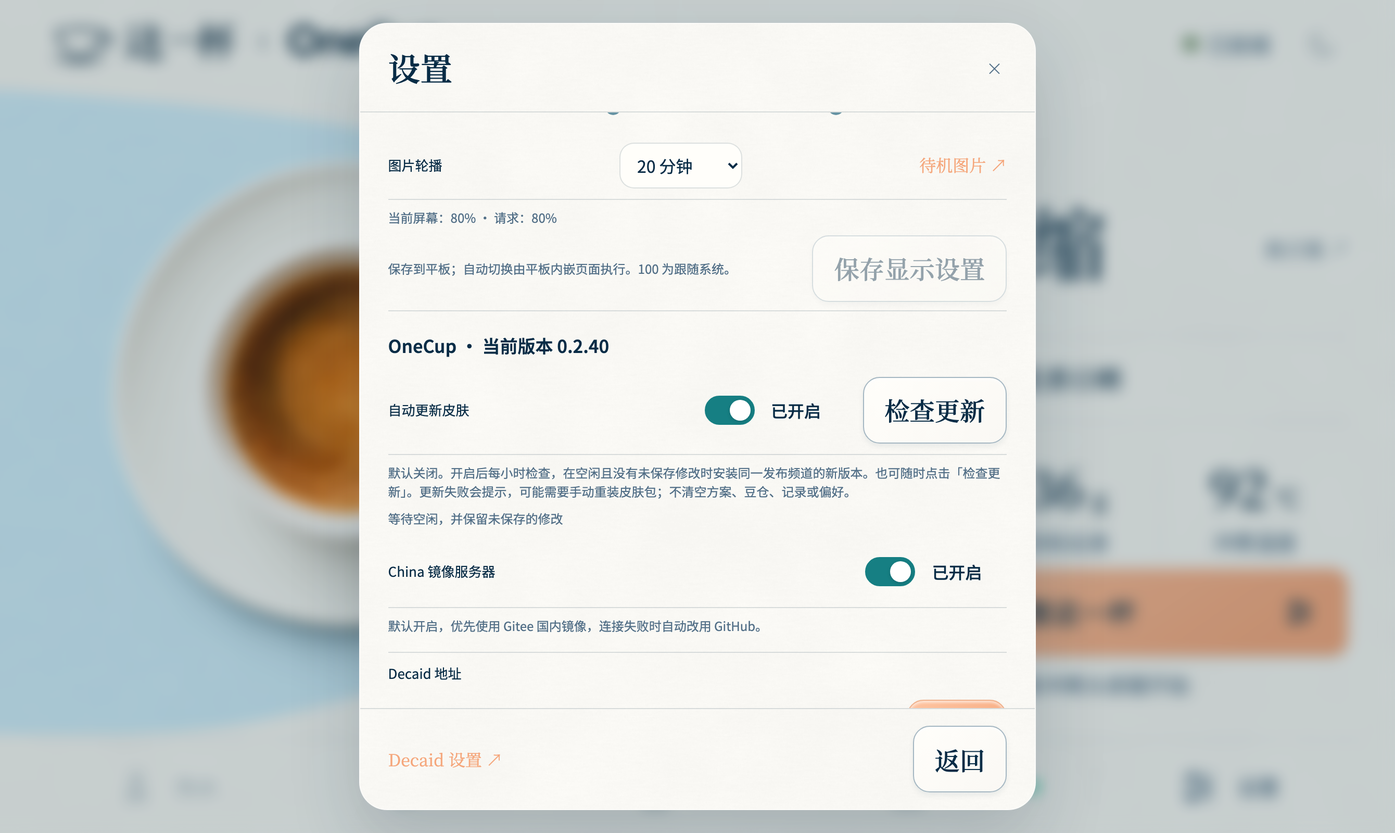
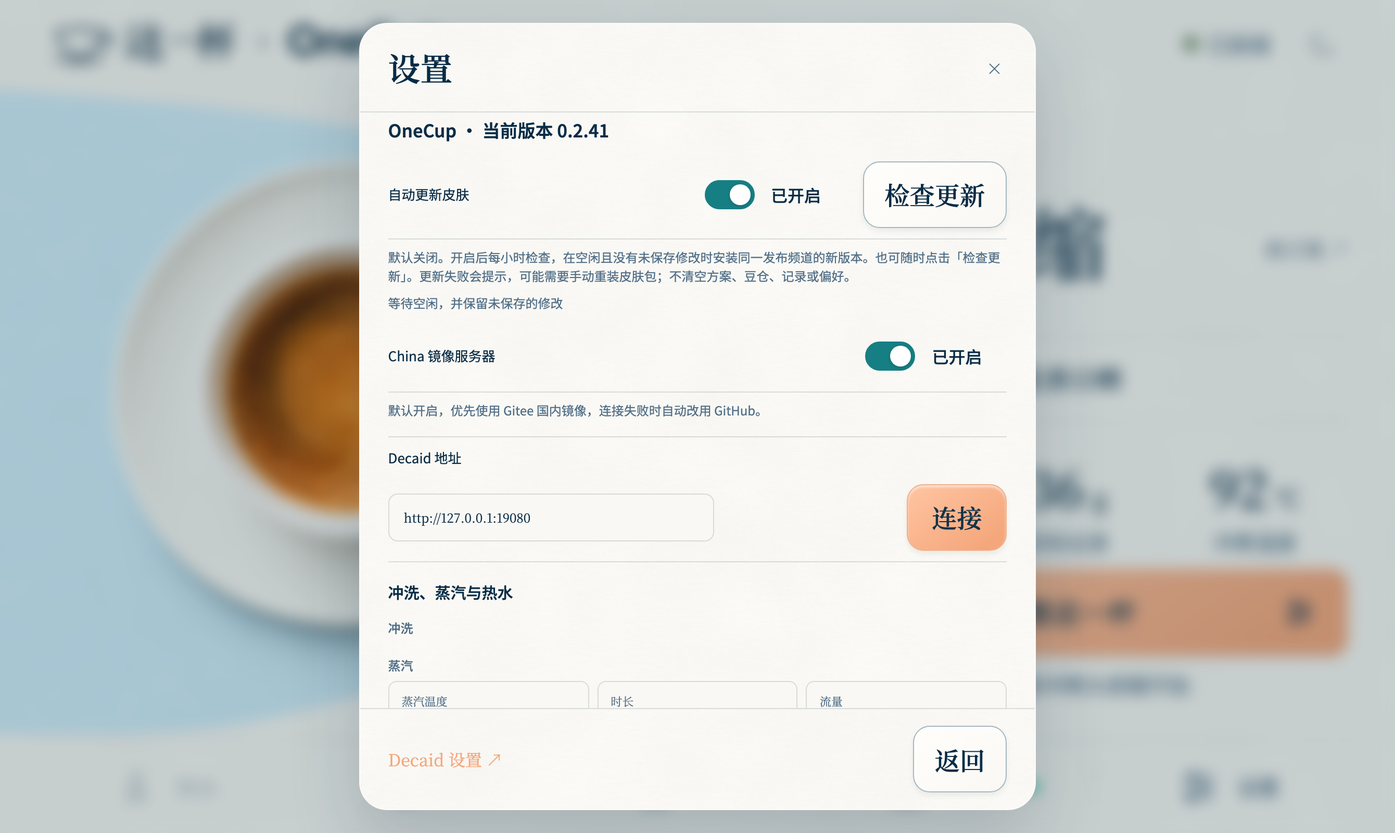
发布 0.2.41：修复制作结束状态处理

diff --git a/skin/index.html b/skin/index.html
@@ -9,16 +9,16 @@
     <meta name="theme-color" content="#f4f3ef" />
     <link rel="icon" href="data:," />
     <title>这一杯 · Decaid</title>
-    <link rel="stylesheet" href="./style.css?v=0.2.40" /><link rel="stylesheet" href="./beans.css?v=0.2.40" />
-    <link rel="stylesheet" href="./ceramic-functional.css?v=0.2.40" />
-    <link rel="stylesheet" href="./profile-editor.css?v=0.2.40" />
-    <link rel="stylesheet" href="./ceramic.css?v=0.2.40" />
-    <link rel="stylesheet" href="./ceramic-reference.css?v=0.2.40" />
-    <link rel="stylesheet" href="./typography.css?v=0.2.40" />
-    <link rel="stylesheet" href="./ceramic-profiles.css?v=0.2.40" />
-    <link rel="stylesheet" href="./ceramic-slices.css?v=0.2.40" />
-    <link rel="stylesheet" href="./ceramic-refinements.css?v=0.2.40" />
-    <link rel="stylesheet" href="./chart-palette.css?v=0.2.40" />
+    <link rel="stylesheet" href="./style.css?v=0.2.41" /><link rel="stylesheet" href="./beans.css?v=0.2.41" />
+    <link rel="stylesheet" href="./ceramic-functional.css?v=0.2.41" />
+    <link rel="stylesheet" href="./profile-editor.css?v=0.2.41" />
+    <link rel="stylesheet" href="./ceramic.css?v=0.2.41" />
+    <link rel="stylesheet" href="./ceramic-reference.css?v=0.2.41" />
+    <link rel="stylesheet" href="./typography.css?v=0.2.41" />
+    <link rel="stylesheet" href="./ceramic-profiles.css?v=0.2.41" />
+    <link rel="stylesheet" href="./ceramic-slices.css?v=0.2.41" />
+    <link rel="stylesheet" href="./ceramic-refinements.css?v=0.2.41" />
+    <link rel="stylesheet" href="./chart-palette.css?v=0.2.41" />
   </head>
   <body data-ceramic-screen="ready">
     <svg class="symbols" aria-hidden="true">
@@ -61,7 +61,7 @@
     </svg>
     <div id="app">
 <header class="topbar">
-<div class="brand"><img class="onecup-brand-art" src="./assets/ceramic/onecup-brand.svg?v=0.2.40" alt="这一杯 · OneCup"></div>
+<div class="brand"><img class="onecup-brand-art" src="./assets/ceramic/onecup-brand.svg?v=0.2.41" alt="这一杯 · OneCup"></div>
 <div class="ceramic-stage-title"><h2 id="stageTitle">准备这一杯</h2><span id="phaseName"></span></div>
 <button id="connectionButton" class="connection" aria-label="连接状态"><i id="connectionDot"></i><span id="connectionText">正在连接</span><span id="deviceName" hidden></span></button>
 <button id="powerButton" class="icon-label power-button" aria-label="休眠或唤醒"><svg viewBox="0 0 24 24"><path d="M20 16A9 9 0 0 1 8 4a9 9 0 1 0 12 12Z"/></svg><span data-i18n="wake">唤醒</span></button>
@@ -165,7 +165,7 @@
     >
       <section class="dialog profile-dialog">
         <header class="dialog-header">
-          <div class="brand"><img class="onecup-brand-art" src="./assets/ceramic/onecup-brand.svg?v=0.2.40" alt="这一杯 · OneCup"></div>
+          <div class="brand"><img class="onecup-brand-art" src="./assets/ceramic/onecup-brand.svg?v=0.2.41" alt="这一杯 · OneCup"></div>
           <h2 id="profileDialogTitle" data-i18n="chooseProfileTitle">
             换个方案
           </h2>
@@ -404,7 +404,7 @@
         </footer>
       </section>
     </div>
-<div class="overlay" id="ceramicAdjustDialog" hidden role="dialog" aria-modal="true" aria-labelledby="ceramicAdjustTitle"><section class="dialog ceramic-adjust-dialog"><header class="dialog-header"><div class="brand"><img class="onecup-brand-art" src="./assets/ceramic/onecup-brand.svg?v=0.2.40" alt="这一杯 · OneCup"></div><h2 id="ceramicAdjustTitle" data-ceramic-i18n="adjustCup">调整这一杯</h2><button data-close class="close-button" aria-label="返回">×</button></header><div class="dialog-content"><span class="ceramic-adjust-eyebrow" data-i18n="currentRecipe">当前方案</span><h3 id="ceramicAdjustName"></h3>          <div class="parameters" id="parameters">
+<div class="overlay" id="ceramicAdjustDialog" hidden role="dialog" aria-modal="true" aria-labelledby="ceramicAdjustTitle"><section class="dialog ceramic-adjust-dialog"><header class="dialog-header"><div class="brand"><img class="onecup-brand-art" src="./assets/ceramic/onecup-brand.svg?v=0.2.41" alt="这一杯 · OneCup"></div><h2 id="ceramicAdjustTitle" data-ceramic-i18n="adjustCup">调整这一杯</h2><button data-close class="close-button" aria-label="返回">×</button></header><div class="dialog-content"><span class="ceramic-adjust-eyebrow" data-i18n="currentRecipe">当前方案</span><h3 id="ceramicAdjustName"></h3>          <div class="parameters" id="parameters">
             <div class="parameter">
               <span class="parameter-label" data-i18n="dose">粉量</span>
               <div class="parameter-control">
@@ -475,10 +475,10 @@
           </button>
 </footer></section></div>
     <div class="ceramic-tools"><button id="historyButton" class="icon-label"><svg><use href="#i-history"/></svg><span data-i18n="history">历史</span></button><button id="themeButton" class="icon-button" aria-label="切换明暗主题"><svg><use href="#i-sun"/></svg></button><button id="languageButton" class="icon-button language" aria-label="Switch language">EN</button><button class="aux-button" data-command="flush"><svg><use href="#i-flush"/></svg><span data-i18n="flush">冲洗</span></button></div>
-<div class="overlay" id="ceramicSteamDialog" hidden role="dialog" aria-modal="true" aria-labelledby="ceramicSteamTitle"><section class="dialog ceramic-steam-dialog"><header class="dialog-header"><div class="brand"><img class="onecup-brand-art" src="./assets/ceramic/onecup-brand.svg?v=0.2.40" alt="这一杯 · OneCup"></div><h2 id="ceramicSteamTitle" data-i18n="steam">蒸汽</h2><span id="ceramicSteamState" hidden></span><button data-close class="close-button" aria-label="返回">×</button></header><div class="ceramic-steam-body"><div class="ceramic-steam-art"><svg class="ceramic-steam-progress" viewBox="0 0 1586 992" aria-hidden="true"><defs><linearGradient id="steam-progress-shade" x1="0" y1="0" x2="1" y2="1"><stop stop-color="#ffa66d"/><stop offset=".5" stop-color="#ffbb80"/><stop offset="1" stop-color="#f4a16a"/></linearGradient><mask id="steam-wand-mask" maskUnits="userSpaceOnUse" x="0" y="0" width="1586" height="992"><rect width="1586" height="992" fill="white"/><path d="M815 169 C787 188 762 213 746 240 C716 269 696 315 683 367 C679 383 684 401 699 410 C715 422 735 413 744 397 L759 351 C774 308 794 284 812 269 L852 246 Z" fill="black"/></mask></defs><image href="./assets/ceramic/slices/steam-art.png" width="1586" height="992"/><g mask="url(#steam-wand-mask)"><path id="ceramicSteamArc" d="M484 229 A278 271 0 1 1 484 771 A278 271 0 1 1 484 229" pathLength="100" fill="none" stroke="url(#steam-progress-shade)" stroke-width="25" stroke-linecap="round"/></g></svg><div class="ceramic-steam-clock"><span data-ceramic-i18n="elapsed">经过时间</span><strong id="ceramicSteamElapsed">—<small>s</small></strong><span data-ceramic-i18n="setDuration">设定时长</span><b id="ceramicSteamDurationNote">— s</b></div></div><div class="ceramic-steam-right"><div class="ceramic-steam-params"><div class="ceramic-steam-param"><label data-ceramic-i18n="steamTemperature">蒸汽温度</label><button data-ceramic-steam-step="temperature:-1" aria-label="减少蒸汽温度">−</button><button data-ceramic-steam-edit="temperature"><strong id="ceramicSteamTemperature">—</strong><small>°C</small></button><button data-ceramic-steam-step="temperature:1" aria-label="增加蒸汽温度">+</button><p id="ceramicSteamActual"></p></div><div class="ceramic-steam-param"><label data-ceramic-i18n="steamFlow">蒸汽流量</label><button data-ceramic-steam-step="flow:-1" aria-label="减少蒸汽流量">−</button><button data-ceramic-steam-edit="flow"><strong id="ceramicSteamFlow">—</strong><small>mL/s</small></button><button data-ceramic-steam-step="flow:1" aria-label="增加蒸汽流量">+</button></div><div class="ceramic-steam-param"><label data-ceramic-i18n="steamDuration">设定时长</label><button data-ceramic-steam-step="duration:-1" aria-label="减少设定时长">−</button><button data-ceramic-steam-edit="duration"><strong id="ceramicSteamDuration">—</strong><small>s</small></button><button data-ceramic-steam-step="duration:1" aria-label="增加设定时长">+</button></div></div><p id="ceramicSteamMessage" role="status"></p><button id="ceramicSteamApply" class="button primary" data-ceramic-i18n="applySteam">应用参数</button><button id="ceramicSteamStop" class="button stop-button active" data-i18n="stop" hidden>停止</button><button id="ceramicSteamStart" class="button primary" hidden data-ceramic-i18n="startSteam">开始蒸汽</button></div></div></section></div>
+<div class="overlay" id="ceramicSteamDialog" hidden role="dialog" aria-modal="true" aria-labelledby="ceramicSteamTitle"><section class="dialog ceramic-steam-dialog"><header class="dialog-header"><div class="brand"><img class="onecup-brand-art" src="./assets/ceramic/onecup-brand.svg?v=0.2.41" alt="这一杯 · OneCup"></div><h2 id="ceramicSteamTitle" data-i18n="steam">蒸汽</h2><span id="ceramicSteamState" hidden></span><button data-close class="close-button" aria-label="返回">×</button></header><div class="ceramic-steam-body"><div class="ceramic-steam-art"><svg class="ceramic-steam-progress" viewBox="0 0 1586 992" aria-hidden="true"><defs><linearGradient id="steam-progress-shade" x1="0" y1="0" x2="1" y2="1"><stop stop-color="#ffa66d"/><stop offset=".5" stop-color="#ffbb80"/><stop offset="1" stop-color="#f4a16a"/></linearGradient><mask id="steam-wand-mask" maskUnits="userSpaceOnUse" x="0" y="0" width="1586" height="992"><rect width="1586" height="992" fill="white"/><path d="M815 169 C787 188 762 213 746 240 C716 269 696 315 683 367 C679 383 684 401 699 410 C715 422 735 413 744 397 L759 351 C774 308 794 284 812 269 L852 246 Z" fill="black"/></mask></defs><image href="./assets/ceramic/slices/steam-art.png" width="1586" height="992"/><g mask="url(#steam-wand-mask)"><path id="ceramicSteamArc" d="M484 229 A278 271 0 1 1 484 771 A278 271 0 1 1 484 229" pathLength="100" fill="none" stroke="url(#steam-progress-shade)" stroke-width="25" stroke-linecap="round"/></g></svg><div class="ceramic-steam-clock"><span data-ceramic-i18n="elapsed">经过时间</span><strong id="ceramicSteamElapsed">—<small>s</small></strong><span data-ceramic-i18n="setDuration">设定时长</span><b id="ceramicSteamDurationNote">— s</b></div></div><div class="ceramic-steam-right"><div class="ceramic-steam-params"><div class="ceramic-steam-param"><label data-ceramic-i18n="steamTemperature">蒸汽温度</label><button data-ceramic-steam-step="temperature:-1" aria-label="减少蒸汽温度">−</button><button data-ceramic-steam-edit="temperature"><strong id="ceramicSteamTemperature">—</strong><small>°C</small></button><button data-ceramic-steam-step="temperature:1" aria-label="增加蒸汽温度">+</button><p id="ceramicSteamActual"></p></div><div class="ceramic-steam-param"><label data-ceramic-i18n="steamFlow">蒸汽流量</label><button data-ceramic-steam-step="flow:-1" aria-label="减少蒸汽流量">−</button><button data-ceramic-steam-edit="flow"><strong id="ceramicSteamFlow">—</strong><small>mL/s</small></button><button data-ceramic-steam-step="flow:1" aria-label="增加蒸汽流量">+</button></div><div class="ceramic-steam-param"><label data-ceramic-i18n="steamDuration">设定时长</label><button data-ceramic-steam-step="duration:-1" aria-label="减少设定时长">−</button><button data-ceramic-steam-edit="duration"><strong id="ceramicSteamDuration">—</strong><small>s</small></button><button data-ceramic-steam-step="duration:1" aria-label="增加设定时长">+</button></div></div><p id="ceramicSteamMessage" role="status"></p><button id="ceramicSteamApply" class="button primary" data-ceramic-i18n="applySteam">应用参数</button><button id="ceramicSteamStop" class="button stop-button active" data-i18n="stop" hidden>停止</button><button id="ceramicSteamStart" class="button primary" hidden data-ceramic-i18n="startSteam">开始蒸汽</button></div></div></section></div>
     <div id="toast" class="toast" role="status" hidden></div>
     <div id="grinderHost"></div>
-    <script type="module" src="./app.js?v=0.2.40"></script>
-    <script type="module" src="./grinder-panel.js?v=0.2.40"></script>
+    <script type="module" src="./app.js?v=0.2.41"></script>
+    <script type="module" src="./grinder-panel.js?v=0.2.41"></script>
   </body>
 </html>

diff --git a/skin/ceramic-slices.css b/skin/ceramic-slices.css
@@ -4,7 +4,7 @@
  :root:not([data-theme=dark]) .ceramic-adjust-dialog .parameters{
   left:1.13vw;right:1.13vw;top:29.94vh;height:44.46vh;
   padding:7vh 4.05vw 10vh;gap:2vw;border:0;border-radius:0;
-  background:url('./assets/ceramic/slices/adjust-panel.png?v=0.2.40r1') center/100% 100% no-repeat;box-shadow:none;
+  background:url('./assets/ceramic/slices/adjust-panel.png?v=0.2.41r1') center/100% 100% no-repeat;box-shadow:none;
  }
  .ceramic-adjust-dialog .parameter-label{font-size:2.15vw;line-height:1.25;margin-bottom:2.4vh}
  .ceramic-adjust-dialog .parameter-control{gap:.8vw}
@@ -20,16 +20,16 @@
  .ceramic-adjust-dialog .save-options{top:61.2vh}
  :root:not([data-theme=dark]) .ceramic-adjust-dialog .number-button,
  :root:not([data-theme=dark]) .gp-dialog .gp-parameter,
- :root:not([data-theme=dark]) .ceramic-steam-param button[data-ceramic-steam-edit]{background:url('./assets/ceramic/slices/number-well.png?v=0.2.40r1') center/100% 100% no-repeat;box-shadow:none;border:0;border-radius:0}
+ :root:not([data-theme=dark]) .ceramic-steam-param button[data-ceramic-steam-edit]{background:url('./assets/ceramic/slices/number-well.png?v=0.2.41r1') center/100% 100% no-repeat;box-shadow:none;border:0;border-radius:0}
  :root:not([data-theme=dark]) .ceramic-adjust-dialog .parameter-control>button:not(.number-button),
  :root:not([data-theme=dark]) .gp-dialog .gp-round,
- :root:not([data-theme=dark]) .ceramic-steam-param button[data-ceramic-steam-step]{background:url('./assets/ceramic/slices/round-button.png?v=0.2.40r1') center/100% 100% no-repeat;box-shadow:none;border:0;border-radius:0}
- :root:not([data-theme=dark]) .gp-dialog .gp-parameters{background:url('./assets/ceramic/slices/grinder-panel.png?v=0.2.40r1') center/100% 100% no-repeat!important;box-shadow:none!important;border:0!important;border-radius:0!important}
- :root:not([data-theme=dark]) .beans-stage .beans-card{background:url('./assets/ceramic/slices/beans-panel.png?v=0.2.40r1') center/100% 100% no-repeat;box-shadow:none;border:0;border-radius:0;overflow:visible}
- :root:not([data-theme=dark]) body[data-ceramic-screen=taste] #ceramicTastePanel{background:url('./assets/ceramic/slices/taste-panel.png?v=0.2.40r1') center/100% 100% no-repeat;box-shadow:none;border:0;border-radius:0}
- :root:not([data-theme=dark]) .ceramic-steam-params{background:url('./assets/ceramic/slices/steam-panel.png?v=0.2.40r1') center/100% 100% no-repeat;box-shadow:none;border:0;border-radius:0}
- :root:not([data-theme=dark]) :is(#applyDraft,#applyProfile,#ceramicSaveNote,#ceramicSteamStop,#ceramicSteamApply,.gp-dialog .gp-primary,.beans-stage .beans-primary){background:url('./assets/ceramic/slices/orange-button.png?v=0.2.40r1') center/100% 100% no-repeat!important;box-shadow:none!important;border:0!important;border-radius:0!important}
- :root:not([data-theme=dark]) .gp-dialog [data-gp=apply]{background:url('./assets/ceramic/slices/soft-button.png?v=0.2.40r1') center/100% 100% no-repeat!important;box-shadow:none!important;border:0!important;border-radius:0!important}
+ :root:not([data-theme=dark]) .ceramic-steam-param button[data-ceramic-steam-step]{background:url('./assets/ceramic/slices/round-button.png?v=0.2.41r1') center/100% 100% no-repeat;box-shadow:none;border:0;border-radius:0}
+ :root:not([data-theme=dark]) .gp-dialog .gp-parameters{background:url('./assets/ceramic/slices/grinder-panel.png?v=0.2.41r1') center/100% 100% no-repeat!important;box-shadow:none!important;border:0!important;border-radius:0!important}
+ :root:not([data-theme=dark]) .beans-stage .beans-card{background:url('./assets/ceramic/slices/beans-panel.png?v=0.2.41r1') center/100% 100% no-repeat;box-shadow:none;border:0;border-radius:0;overflow:visible}
+ :root:not([data-theme=dark]) body[data-ceramic-screen=taste] #ceramicTastePanel{background:url('./assets/ceramic/slices/taste-panel.png?v=0.2.41r1') center/100% 100% no-repeat;box-shadow:none;border:0;border-radius:0}
+ :root:not([data-theme=dark]) .ceramic-steam-params{background:url('./assets/ceramic/slices/steam-panel.png?v=0.2.41r1') center/100% 100% no-repeat;box-shadow:none;border:0;border-radius:0}
+ :root:not([data-theme=dark]) :is(#applyDraft,#applyProfile,#ceramicSaveNote,#ceramicSteamStop,#ceramicSteamApply,.gp-dialog .gp-primary,.beans-stage .beans-primary){background:url('./assets/ceramic/slices/orange-button.png?v=0.2.41r1') center/100% 100% no-repeat!important;box-shadow:none!important;border:0!important;border-radius:0!important}
+ :root:not([data-theme=dark]) .gp-dialog [data-gp=apply]{background:url('./assets/ceramic/slices/soft-button.png?v=0.2.41r1') center/100% 100% no-repeat!important;box-shadow:none!important;border:0!important;border-radius:0!important}
  body[data-ceramic-screen=ready] .ceramic-beans-link{min-height:15%}
  body[data-ceramic-screen=ready] .ceramic-recipe-values{height:10.1vh;min-height:0}
  body[data-ceramic-screen=ready] #ceramicAdjust{height:10.68vh;min-height:0;padding:1vh 3.6vw;font:500 2.5vw/1.2 var(--font-caption)}
@@ -76,10 +76,10 @@
 @media(min-width:751px){
  :root:not([data-theme=dark]) :is(.ceramic-adjust-dialog .parameters,.gp-dialog .gp-parameters,.beans-stage .beans-card,.ceramic-steam-params){filter:drop-shadow(0 .65vw .7vw #394a5319)}
  .gp-dialog .gp-burr-art{filter:drop-shadow(0 1vw .8vw #35556830)}
- .beans-art{background:url('./assets/ceramic/slices/beans-art.png?v=0.2.40r1') center/100% 100% no-repeat;mix-blend-mode:normal;mask-image:none}
+ .beans-art{background:url('./assets/ceramic/slices/beans-art.png?v=0.2.41r1') center/100% 100% no-repeat;mix-blend-mode:normal;mask-image:none}
  .beans-art>image{visibility:hidden}
  #ceramicCupArt{mask-image:linear-gradient(to right,#000 88%,transparent),linear-gradient(to bottom,transparent,#000 2%,#000 96%,transparent);mask-composite:intersect}
- .ceramic-steam-art{background-image:url('./assets/ceramic/slices/steam-art.png?v=0.2.40r1');mask-image:none;width:calc(100% + 1.5vw)}
+ .ceramic-steam-art{background-image:url('./assets/ceramic/slices/steam-art.png?v=0.2.41r1');mask-image:none;width:calc(100% + 1.5vw)}
 }
 @media(min-width:751px){
  #ceramicSteamStop{position:relative}
@@ -100,10 +100,10 @@
 
 /* All exposed white page areas use one continuous paper stock. Ceramic
    controls retain their own raised surface; artwork has transparent margins. */
-:root:not([data-theme=dark]){--paper:#faf9f5;--panel:#faf9f5;--paper-image:url('./assets/ceramic/paper.webp?v=0.2.40r1')}
+:root:not([data-theme=dark]){--paper:#faf9f5;--panel:#faf9f5;--paper-image:url('./assets/ceramic/paper.webp?v=0.2.41r1')}
 :root:not([data-theme=dark]) :is(body,#app,.dialog,.gp-overlay,.gp-dialog,.gp-subview,.gp-keypad,.beans-overlay,.beans-sheet){background-color:var(--paper);background-image:var(--paper-image);background-size:cover;background-position:center;background-attachment:fixed}
 :root:not([data-theme=dark]) :is(.topbar,.control-bar,.dialog-header,.dialog-footer,.gp-header,.gp-footer){background:transparent}
-body[data-ceramic-screen=ready] #ceramicCupArt{background-image:url('./assets/ceramic/slices/cup-art.png?v=0.2.40r1');background-size:contain;background-position:left center;background-repeat:no-repeat;mask-image:none}
+body[data-ceramic-screen=ready] #ceramicCupArt{background-image:url('./assets/ceramic/slices/cup-art.png?v=0.2.41r1');background-size:contain;background-position:left center;background-repeat:no-repeat;mask-image:none}
 /* The jug and its live ring share the source board's coordinates. Neither
    aspect ratio nor the wider artwork column can distort their alignment. */
 .ceramic-steam-art{--steam-art-width:min(100vw,159.879vh);background:none!important}

diff --git a/skin/grinder-panel.js b/skin/grinder-panel.js
@@ -1,5 +1,5 @@
-import {brandMarkup} from "./brand.js?v=0.2.40";
-import {guardDismissClick} from "./dismiss-guard.js?v=0.2.40";
+import {brandMarkup} from "./brand.js?v=0.2.41";
+import {guardDismissClick} from "./dismiss-guard.js?v=0.2.41";
 const GP_TEXT = {
   zh: {title:'研磨准备',profile:'当前曲线',other:'读取其他方案',saved:'已保存到当前曲线',draft:'尚未应用',matched:'已读取曲线方案',device:'使用磨豆机当前参数',gap:'刀盘间距',rpm:'刀盘转速',feed:'进豆转速',manual:'手动',timed:'定时',smart:'智能',mode:'启动模式',apply:'应用参数',save:'保存研磨方案',start:'开始研磨',stop:'停止研磨',back:'返回',read:'读取设备',connect:'连接',connecting:'正在连接',connected:'已连接',disconnected:'未连接',unavailable:'小方插件尚未安装',idle:'待机',grinding:'研磨中',unknown:'调整中',error:'设备异常',reading:'正在读取',applying:'正在应用',starting:'正在启动',stopping:'正在停止',applied:'参数已应用',failed:'操作未完成',empty:'还没有保存的方案',search:'搜索方案',borrow:'借用',borrowed:'已载入草稿',cancel:'取消',done:'完成',clear:'清空',range:'范围',invalid:'请输入范围内的整数',close:'返回冲煮',live:'设备读数',noProfile:'未选曲线',loading:'正在读取方案',note:'应用到磨豆机；保存到曲线',ready:'准备好了',finished:'研磨结束',missing:'请先读取完整参数',retry:'重试连接'},
   en: {title:'Prepare to grind',profile:'Current profile',other:'Load recipe',saved:'Saved to this profile',draft:'Not applied',matched:'Profile recipe loaded',device:'Using grinder settings',gap:'Burr gap',rpm:'Burr speed',feed:'Feed speed',manual:'Manual',timed:'Timed',smart:'Smart',mode:'Start mode',apply:'Apply settings',save:'Save grind recipe',start:'Start grinding',stop:'Stop grinder',back:'Back',read:'Read grinder',connect:'Connect',connecting:'Connecting',connected:'Connected',disconnected:'Disconnected',unavailable:'CRYSTAL plugin is not installed',idle:'Idle',grinding:'Grinding',unknown:'Adjusting',error:'Device error',reading:'Reading',applying:'Applying',starting:'Starting',stopping:'Stopping',applied:'Settings applied',failed:'Action failed',empty:'No saved recipes yet',search:'Search recipes',borrow:'Use recipe',borrowed:'Loaded as draft',cancel:'Cancel',done:'Done',clear:'Clear',range:'Range',invalid:'Enter a whole number within range',close:'Back to brewing',live:'Device readings',noProfile:'No profile selected',loading:'Loading recipe',note:'Apply to grinder · Save to profile',ready:'Ready',finished:'Grinding finished',missing:'Read the complete settings first',retry:'Reconnect'}
@@ -243,7 +243,7 @@ export function mountGrinderUI(container,{client,getWorkflow,getProfileIdentity=
       <header class="gp-header"><div class="gp-brand">${brandMarkup()}</div><h2>${displayRunning?t('grinding'):t('title')}</h2><span class="gp-state ${status}"><i></i>${gpEscape(badgeView.label)}</span></header>
       <div class="gp-profile ${String(profile?.title||profile?.name||'').length>14?'gp-long-profile':''}"><span>${t('profile')}</span><strong>${profileTitle}</strong></div>
       ${api.listDevices?`<button type="button" class="gp-device-select" data-gp="devices" ${deviceBlocked()?'disabled':''}><span><strong>${gpEscape(deviceLabel())}</strong><small>${gpEscape(deviceCaption())}</small></span><b>⌄</b></button>`:''}
-      <img class="gp-burr-art" src="${new URL('./assets/ceramic/slices/grinder-art.png?v=0.2.40',import.meta.url).href}" alt="" aria-hidden="true"/>
+      <img class="gp-burr-art" src="${new URL('./assets/ceramic/slices/grinder-art.png?v=0.2.41',import.meta.url).href}" alt="" aria-hidden="true"/>
       <div class="gp-main">
         <div class="gp-toolbar"><div class="gp-mode" aria-label="${t('mode')}">${GP_MODES.map(mode=>`<button type="button" class="${draft.bootMode===mode?'selected':''}" data-gp="mode" data-mode="${mode}" aria-pressed="${draft.bootMode===mode}" ${cardDisabled}>${t(mode)}</button>`).join('')}</div><button type="button" class="gp-link" data-gp="recipes" ${blocked()?'disabled':''}><svg viewBox="0 0 24 24" aria-hidden="true"><path d="M3 6h7l2 3h9v12H3V6Zm0 3V3h7l2 3h8v3"/></svg>${t('other')} ›</button></div>
         <div class="gp-parameters"><p class="gp-feedback ${failure?'error':''}" role="status">${gpEscape(feedbackText)}</p>${Object.entries(GP_FIELDS).map(([key,field])=>`<div class="gp-parameter-row"><label>${t(field.label)}</label><button class="gp-round" type="button" data-gp="increment" data-field="${key}" data-delta="-1" aria-label="${lang==='zh'?'减少':'Decrease '}${t(field.label)}" ${blocked()||!Number.isFinite(draft[key])?'disabled':''}>−</button><button type="button" class="gp-parameter ${dirty?'is-draft':''}" data-gp="edit" data-field="${key}" ${cardDisabled}><strong>${draft[key]!=null?gpEscape(draft[key]):'—'}</strong><small>${field.unit}</small><svg viewBox="0 0 24 24" aria-hidden="true"><path d="m4 16-1 5 5-1L21 7l-4-4L4 16Zm11-11 4 4"/></svg></button><button class="gp-round" type="button" data-gp="increment" data-field="${key}" data-delta="1" aria-label="${lang==='zh'?'增加':'Increase '}${t(field.label)}" ${blocked()||!Number.isFinite(draft[key])?'disabled':''}>+</button></div>`).join('')}</div>
@@ -385,7 +385,7 @@ function attachGrinderEntry(){
   const button=document.querySelector('#grinderButton'),host=document.querySelector('#grinderHost');
   if(!button||!host||button.dataset.gpAttached)return;
   button.dataset.gpAttached='true';
-  const cssUrl=new URL('./grinder.css?v=0.2.40',import.meta.url).href;
+  const cssUrl=new URL('./grinder.css?v=0.2.41',import.meta.url).href;
   if(![...document.querySelectorAll('link[rel="stylesheet"]')].some(link=>link.href===cssUrl)){
     const link=document.createElement('link');link.rel='stylesheet';link.href=cssUrl;document.head.appendChild(link);
   }

diff --git a/skin/app.js b/skin/app.js
@@ -1,18 +1,18 @@
 import {isPreparation,isProfileSample,shotMeasurements,collapseProgress} from "./brew-timeline.js";
-import {stageLabel} from "./stage-labels.js?v=0.2.40";
-import {pendingInventoryIds,pendingInventoryCursor,rememberInventoryAttempt,rememberInventoryShot,forgetInventoryShot} from "./inventory-pending.js?v=0.2.40";
-import {consumeSavedShot} from "./shot-inventory.js?v=0.2.40";
-import {telemetryPath} from "./chart-path.js?v=0.2.40";
-import {setGroupHeadHint} from "./ghc-icons.js?v=0.2.40";
-import {mountProfileIntro} from "./profile-intro.js?v=0.2.40";
-import {mountOnlineProfiles} from "./online-profiles.js?v=0.2.40";
-import {mountCeramic} from "./ceramic-ui.js?v=0.2.40";
-import {paintGauge,gaugeSpec} from "./instruments.js?v=0.2.40";
-import { DecaidClient, selectedProfileContext, profileExecutionKey, resolveProfileIdentity, rebaseWorkflowDraft } from "./client.js?v=0.2.40";
-import { createDisplayManager, DEFAULT_DISPLAY_PREFERENCES } from "./display.js?v=0.2.40";
-import { createSkinUpdater } from "./update.js?v=0.2.40";
-import {createCupReporter,beanSnapshot,machineIdentity} from './cup-telemetry.js?v=0.2.40';
-import { createUsageReporter } from "./usage.js?v=0.2.40";
+import {stageLabel} from "./stage-labels.js?v=0.2.41";
+import {pendingInventoryIds,pendingInventoryCursor,rememberInventoryAttempt,rememberInventoryShot,forgetInventoryShot} from "./inventory-pending.js?v=0.2.41";
+import {consumeSavedShot} from "./shot-inventory.js?v=0.2.41";
+import {telemetryPath} from "./chart-path.js?v=0.2.41";
+import {setGroupHeadHint} from "./ghc-icons.js?v=0.2.41";
+import {mountProfileIntro} from "./profile-intro.js?v=0.2.41";
+import {mountOnlineProfiles} from "./online-profiles.js?v=0.2.41";
+import {mountCeramic} from "./ceramic-ui.js?v=0.2.41";
+import {paintGauge,gaugeSpec} from "./instruments.js?v=0.2.41";
+import { DecaidClient, selectedProfileContext, profileExecutionKey, resolveProfileIdentity, rebaseWorkflowDraft } from "./client.js?v=0.2.41";
+import { createDisplayManager, DEFAULT_DISPLAY_PREFERENCES } from "./display.js?v=0.2.41";
+import { createSkinUpdater } from "./update.js?v=0.2.41";
+import {createCupReporter,beanSnapshot,machineIdentity} from './cup-telemetry.js?v=0.2.41';
+import { createUsageReporter } from "./usage.js?v=0.2.41";
 
 const $ = (id) => document.getElementById(id);
 const clone = (x) => (x == null ? x : JSON.parse(JSON.stringify(x)));
@@ -63,7 +63,7 @@ let runTelemetryIdentity=null;
 let runTelemetryShotId=null;
 let cupPersistenceWarningAt=0;
 let skinUpdater;
-const SKIN_VERSION = "0.2.40";
+const SKIN_VERSION = "0.2.41";
 const s = {
   language: store.get("language", "zh"),
   theme: store.get("theme", "light"),
@@ -1342,9 +1342,10 @@ function onSnapshot(snapshot) {
     s.loadedFinishedId !== s.snapshot.shotState.shotId
   )
     loadFinishedShot(s.snapshot.shotState.shotId);
-  // Telemetry follows the host's confirmed finished signal independently of
-  // the UI history cache, which may already hold a stopping-phase snapshot.
-  if(s.snapshot.shotState?.state==='finished'&&s.snapshot.shotState.shotId===s.runId&&s.mode==='finished'&&runTelemetryMetadata&&
+  // The host's finished stream can arrive before the machine/UI leaves
+  // running, then reset to idle. Persist it immediately; the reporter waits
+  // for an idle machine before reading history or sending the queued event.
+  if(s.snapshot.shotState?.state==='finished'&&s.snapshot.shotState.shotId===s.runId&&runTelemetryMetadata&&
       (telemetryFinishedMarker?.id!==s.runId||telemetryFinishedMarker?.client!==client)){
     const marker={id:s.runId,client},metadata=runTelemetryMetadata,bean=runTelemetryBean;
     telemetryFinishedMarker=marker;

diff --git a/skin/online-profiles.js b/skin/online-profiles.js
@@ -1,15 +1,15 @@
-import {guardDismissClick} from './dismiss-guard.js?v=0.2.40';
-import {brandMarkup} from './brand.js?v=0.2.40';
-import {stageLabel} from './stage-labels.js?v=0.2.40';
-import {profileIntroChart,profileIntroModel} from './profile-intro.js?v=0.2.40';
-import seed from './online-profile-seed.js?v=0.2.40';
-import {normalizeOnlineProfile,onlineExecutionKey,findDownloaded,readOnlineRecord,readOfficialCatalog,readCommunityPage,saveOnlineRecord} from './online-profile-service.js?v=0.2.40';
+import {guardDismissClick} from './dismiss-guard.js?v=0.2.41';
+import {brandMarkup} from './brand.js?v=0.2.41';
+import {stageLabel} from './stage-labels.js?v=0.2.41';
+import {profileIntroChart,profileIntroModel} from './profile-intro.js?v=0.2.41';
+import seed from './online-profile-seed.js?v=0.2.41';
+import {normalizeOnlineProfile,onlineExecutionKey,findDownloaded,readOnlineRecord,readOfficialCatalog,readCommunityPage,saveOnlineRecord} from './online-profile-service.js?v=0.2.41';
 const esc=v=>String(v??'').replace(/[&<>"']/g,c=>({'&':'&amp;','<':'&lt;','>':'&gt;','"':'&quot;',"'":'&#39;'}[c]));
 export function mountOnlineProfiles({getClient,getLanguage,getProfiles,onLibrary,onBrowseLocal,isAllowed,notice,explainError}){
  const host=document.createElement('div');host.id='onlineProfileHost';host.hidden=true;host.setAttribute('role','dialog');host.setAttribute('aria-modal','true');document.body.append(host);
  const root=host.attachShadow({mode:'open'}),$=id=>root.getElementById(id);
  // Keep the loaded stylesheet connected while tabs rebuild their content.
- const stylesheet=document.createElement('link');stylesheet.rel='stylesheet';stylesheet.href=new URL('./online-profiles.css?v=0.2.40',import.meta.url);
+ const stylesheet=document.createElement('link');stylesheet.rel='stylesheet';stylesheet.href=new URL('./online-profiles.css?v=0.2.41',import.meta.url);
  const content=document.createElement('div');root.append(stylesheet,content);
  let language='zh',mode='official',selected=null,official=seed.map(r=>({...r,profile:normalizeOnlineProfile(r.profile)})),community=[];
  let session=0,modalEpoch=0,saveBusy=false,catalogBusy=false,modalAction=null,previousFocus,controller=null,toastTimer,libraryRef=null,activeApi=null,catalogLoaded=false;

diff --git a/skin/ceramic-ui.js b/skin/ceramic-ui.js
@@ -1,12 +1,12 @@
-import {beanSnapshot} from './cup-telemetry.js?v=0.2.40';
-import {openFlavorWheel} from './flavor-wheel.js?v=0.2.40';
-import {mountSteamPitcher} from './steam-pitcher.js?v=0.2.40';
-import {stageLabel} from './stage-labels.js?v=0.2.40';
-import {guardDismissClick} from './dismiss-guard.js?v=0.2.40';
-import {mountBeans} from './beans.js?v=0.2.40';
-import {paintGauge} from './instruments.js?v=0.2.40';
-import {setGroupHeadHint} from './ghc-icons.js?v=0.2.40';
-import {mountProfileEditor} from './profile-editor.js?v=0.2.40';
+import {beanSnapshot} from './cup-telemetry.js?v=0.2.41';
+import {openFlavorWheel} from './flavor-wheel.js?v=0.2.41';
+import {mountSteamPitcher} from './steam-pitcher.js?v=0.2.41';
+import {stageLabel} from './stage-labels.js?v=0.2.41';
+import {guardDismissClick} from './dismiss-guard.js?v=0.2.41';
+import {mountBeans} from './beans.js?v=0.2.41';
+import {paintGauge} from './instruments.js?v=0.2.41';
+import {setGroupHeadHint} from './ghc-icons.js?v=0.2.41';
+import {mountProfileEditor} from './profile-editor.js?v=0.2.41';
 export function mountCeramic(api){
  const $=id=>document.getElementById(id),s=api.state;
  const pitcherPrompt=mountSteamPitcher(api);

diff --git a/skin/update.js b/skin/update.js
@@ -1,8 +1,8 @@
-import {mirrorReleasesUrl,trustedMirrorAsset,normalizeMirrorReleases,confirmedMirrorDownloadFailure} from './china-mirror.js?v=0.2.40';
+import {mirrorReleasesUrl,trustedMirrorAsset,normalizeMirrorReleases,confirmedMirrorDownloadFailure} from './china-mirror.js?v=0.2.41';
 // Skin-only updates via Decaid's documented installer. No machine command or data reset.
 // Native installer behavior: decentespresso/decaid lib/src/services/webserver/webui_handler.dart
 // and lib/src/webui_support/webui_storage.dart (installFromUrl / _installFromDirectory).
-import {isUsageEnvironment} from './usage.js?v=0.2.40';
+import {isUsageEnvironment} from './usage.js?v=0.2.41';
 export const UPDATE_STORAGE_KEY='thiscup.autoUpdate.v1';
 export const CHINA_MIRROR_STORAGE_KEY='onecup.chinaMirror.v1';
 export const CHINA_MIRROR_REPOSITORY='chowjw/OneCup';

diff --git a/skin/flavor-wheel.js b/skin/flavor-wheel.js
@@ -14,7 +14,7 @@ export function openFlavorWheel({values=[],locale='zh',onConfirm=()=>{},onClose=
   else if(event.data?.type==='thiscup-flavor-confirm'&&Array.isArray(event.data.values)&&event.data.values.every(v=>typeof v==='string')){const chosen=[...event.data.values];close();onConfirm(chosen);}
  }
  window.addEventListener('message',receive);
- frame.src=new URL(`./flavor-wheel/index.html?lang=${locale==='en'?'en':'zh'}&v=0.2.40`,import.meta.url).href;
+ frame.src=new URL(`./flavor-wheel/index.html?lang=${locale==='en'?'en':'zh'}&v=0.2.41`,import.meta.url).href;
  box.append(frame);document.body.append(box);frame.focus();
  return {close};
 }

diff --git a/skin/profile-intro.js b/skin/profile-intro.js
@@ -1,5 +1,5 @@
-import {stageLabel} from "./stage-labels.js?v=0.2.40";
-import {guardDismissClick} from './dismiss-guard.js?v=0.2.40';
+import {stageLabel} from "./stage-labels.js?v=0.2.41";
+import {guardDismissClick} from './dismiss-guard.js?v=0.2.41';
 
 const numeric = value => value === null || value === undefined || value === '' || typeof value === 'boolean' || !Number.isFinite(Number(value)) ? null : Number(value);
 const format = value => numeric(value) === null ? '—' : String(Math.round(Number(value) * 100) / 100);

diff --git a/skin/profile-editor.js b/skin/profile-editor.js
@@ -1,5 +1,5 @@
-import {brandMarkup} from './brand.js?v=0.2.40';
-import {guardDismissClick} from './dismiss-guard.js?v=0.2.40';
+import {brandMarkup} from './brand.js?v=0.2.41';
+import {guardDismissClick} from './dismiss-guard.js?v=0.2.41';
 // Schema: Decaid lib/src/models/data/profile.dart, native DE1 frame encoding.
 // This module edits a detached draft only; it has no device or network adapter.
 const copy=v=>JSON.parse(JSON.stringify(v));

diff --git a/skin/client.js b/skin/client.js
@@ -1,5 +1,5 @@
 // Decaid 0.9 REST/WS adapter. Commands are never replayed after a timeout.
-import {createGrinderClient} from './grinder.js?v=0.2.40';
+import {createGrinderClient} from './grinder.js?v=0.2.41';
 // Shared by the library preview and the actual selection write.
 export function selectedProfileContext(entry,currentContext={}) {
   const profile=entry?.profile||entry||{},context={...currentContext};

diff --git a/skin/beans.js b/skin/beans.js
@@ -1,5 +1,5 @@
-import {brandMarkup} from "./brand.js?v=0.2.40";
-import {guardDismissClick} from "./dismiss-guard.js?v=0.2.40";
+import {brandMarkup} from "./brand.js?v=0.2.41";
+import {guardDismissClick} from "./dismiss-guard.js?v=0.2.41";
 // Bean inventory is optional. Weighing writes only after explicit confirmation.
 const STORE='/store/thiscup/beans';
 const RECORDS='/store/thiscup-beans';
